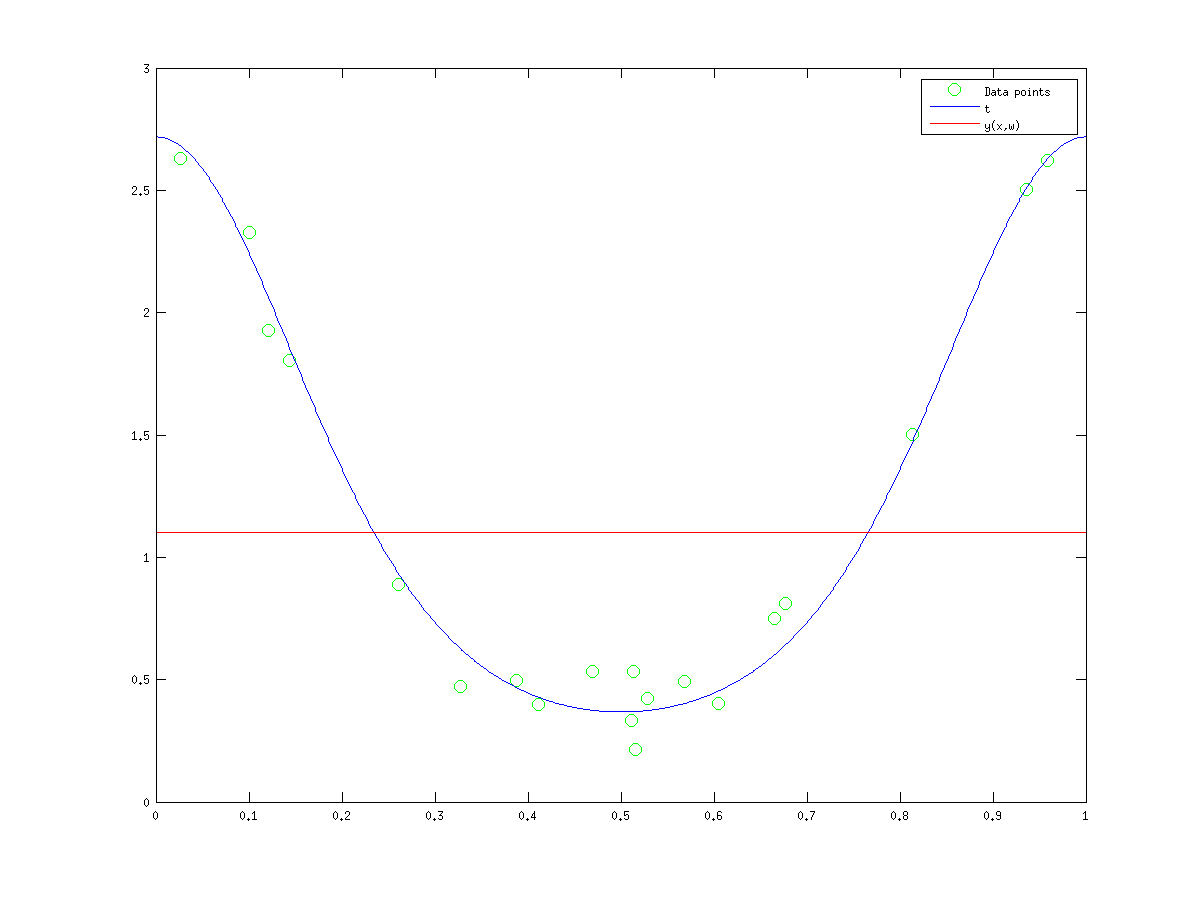
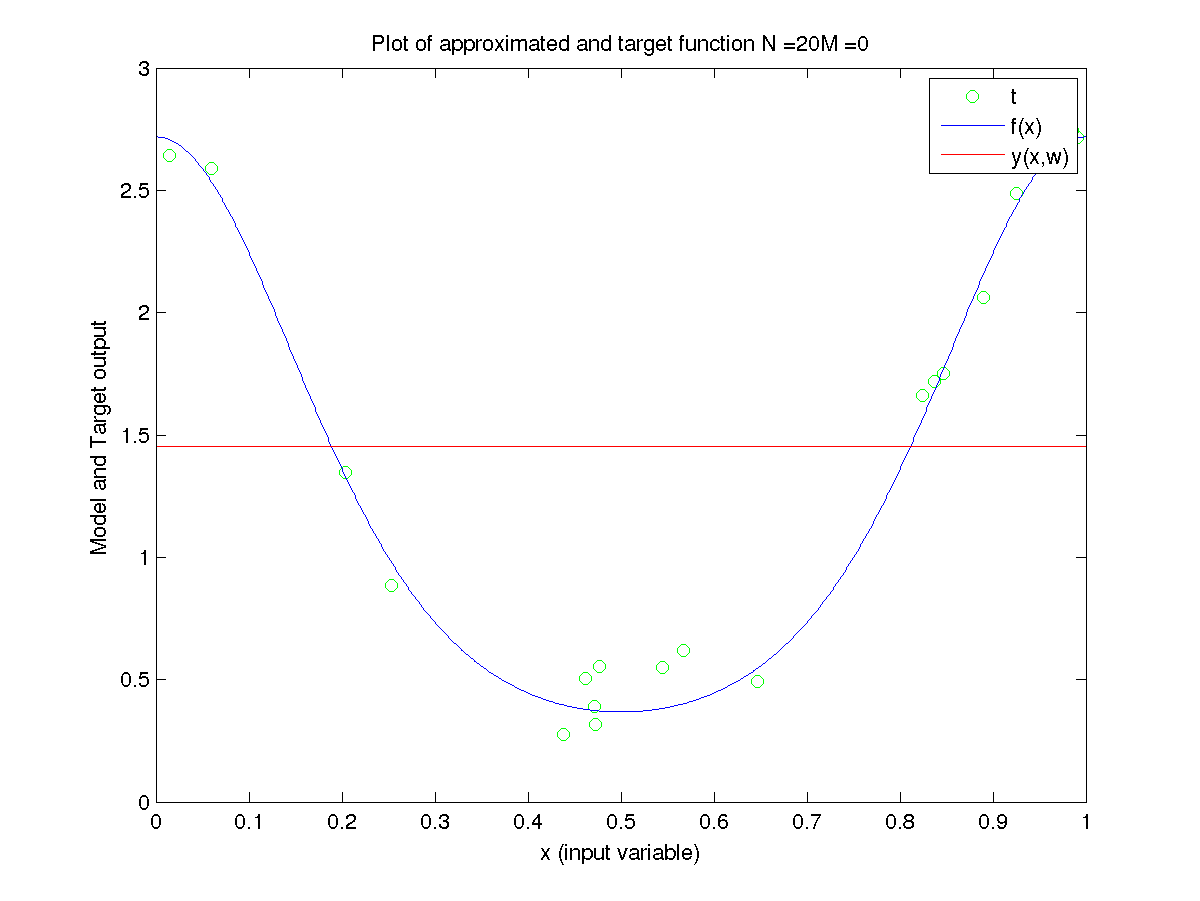
Changed plots for Q1

diff --git a/Assignment_1/Code/Plot_fn_1.m b/Assignment_1/Code/Plot_fn_1.m
@@ -4,25 +4,69 @@ coeffs = curve_fit(train,M,lambda);
 x = 0:.001:1;       
 y1 = exp(cos(2*pi*x));
 y2 = polyval(coeffs,x);
-fig1 = figure;
 
-plot(train(:,1),train(:,2),'go',x,y1,'b',x,y2,'r'), axis([0,1,0,3]);
-
+N = length(train);
 
 % Change this line each time to give different names to the plots
-
+if (index == 0)
+    legend('t','f(x)','y(x,w)');
+    plot(train(:,1),train(:,2),'go',x,y1,'b',x,y2,'r'), axis([0,1,0,3]);
+    %title(strcat('Plot of approximated function and target function for N = '),int2str(N),' and M = ', int2str(M))
+    
+    a = strcat(('Plot of approximated and target function N = '),int2str(N), ' and M = ',int2str(M));
+    
+    title(a);
+    xlabel('x (input variable)');
+    ylabel('Model and Target output');
+    
+    legend('show');
+    %saveas(fig1,strcat('Plots_1/Varying_M/VaryingM_N',int2str(length(train)),'M',int2str(M),'.png'));
+    
+end   
 if(index == 1)
-    legend('Data points','t','y(x,w)');
+    fig1 = figure(1);
+
+    plot(train(:,1),train(:,2),'go',x,y1,'b',x,y2,'r'), axis([0,1,0,3]);
+    legend('t','f(x)','y(x,w)');
+    
+    %title(strcat('Plot of approximated function and target function for N = '),int2str(N),' and M = ', int2str(M))
+    
+    a = strcat(('Plot of approximated and target function N = '),int2str(N), ' and M = ',int2str(M));
+    
+    title(a);
+    xlabel('x (input variable)');
+    ylabel('Model and Target output');
+    
+    legend('show');
     saveas(fig1,strcat('Plots_1/Varying_M/VaryingM_N',int2str(length(train)),'M',int2str(M),'.png'));
+    
 end
 
 if(index == 2)
+    fig1 = figure(1);
+
+    plot(train(:,1),train(:,2),'go',x,y1,'b',x,y2,'r'), axis([0,1,0,3]);
+     a = strcat(('Plot of approximated and target function N = '),int2str(N), ' and M = ',int2str(M));
+    
+    title(a);
+    xlabel('x (input variable)');
+    ylabel('Model and Target output');
+    
     legend('Data points','t','y(x,w)');
     saveas(fig1,strcat('Plots_1/Varying_N/VaryingN_N',int2str(length(train)),'M',int2str(M),'.png')); 
 end
 
 if (index == 3)
+    fig1 = figure(1);
+
+    plot(train(:,1),train(:,2),'go',x,y1,'b',x,y2,'r'), axis([0,1,0,3]);
     legend('Data points','t','y(x,w)');
+    a = strcat(('Plot of approximated and target function N = '),int2str(N), ' and M = ',int2str(M),' for lambda = ',num2str(lambda));
+    
+    title(a);
+    xlabel('x (input variable)');
+    ylabel('Model and Target output');
+    
     saveas(fig1,strcat('Plots_1/Varying_lambda/Varyinglambda_N',int2str(length(train)),'M',int2str(M),'lambda',num2str(lambda),'.png'));    
 end
 

diff --git a/Assignment_1/Code/Q1.m b/Assignment_1/Code/Q1.m
@@ -4,7 +4,7 @@
 % M           - model complexity
 % lambda      - array of values to test for regularization
 
-lambda_values = [0,10^(-6),10^(-5),10^(-4),10^(-3),10^(-2),10^(-1),1,2,5];
+lambda_values = [0,10^(-6),10^(-5),10^(-4),10^(-3),10^(-2),10^(-1),1];
 sigma = 0.1;
 
 validationSet = samplePoints(sigma,50);
@@ -19,38 +19,48 @@ train_1000 = samplePoints(sigma,1000);
 %fplot(fn,[0,1]);
 
 lambda = 0.0;
-M_values = [2,3,5,7,10,15];
+%M_values = [2,3,5,7,10,15];
+M_values = [0,1,3,9,15];
 
-
+cc = hsv(length(M_values));
 % Plots on varying M - note lambda = 0 here
+k = 0;
+colorstring = 'krmcy';
+legend_names=cell(1,2);
 for i = 1:length(M_values)
     
     % Use Plot_fn as pass 1 as the last param
-    %Plot_fn_1(train_1000,M_values(i),lambda,1);
+    %Plot_fn_1(train_20,M_values(i),lambda,1);
     
-%     coeffs = curve_fit(train_100,M_values(i),lambda);  
-%     x = 0:.001:1;       
-%     y1 = exp(cos(2*pi*x));
-%     y2 = polyval(coeffs,x);
-%     fig1 = figure;
-%     
-%     plot(train_100(:,1),train_100(:,2),'go',x,y1,'b',x,y2,'r'), axis([0,1,0,3]);
-%     xlabel('x');
+%      coeffs = curve_fit(train_100,M_values(i),lambda);  
+%      x = 0:.001:1;       
+%      y1 = exp(cos(2*pi*x));
+%      y2 = polyval(coeffs,x);
+% %     fig1 = figure;
+%      plot(train_100(:,1),train_100(:,2),'go',x,y1,'b',x,y2,colorstring(i)), axis([0,1,0,3]);
+%      xlabel('x');
+%      hold on;
+%      
+%     legend_names{i} = int2str(M_values(i));
 %     % Set appropriate legend here
-%     legend('Data points','t','y(x,w)');
-%     saveas(fig1,strcat('Plots_1/Varying_M_',int2str(M_values(i)),'.png')); 
+     %legend('Data points','t','y(x,w)');
+
     
 end
+
+
+%
+%saveas(gcf,strcat('Plots_1/Varying_M/',int2str(length(train_20)),'.png'));
 
 % On varying train set size for some value of M - note lambda = 0 here
 
 % Change M for different set  - use Plot_fn function and pass 2 as the last
 % param
-M = 9;
+M = 15;
 
-% Plot_fn_1(train_20,M,0,2);
-% Plot_fn_1(train_100,M,0,2);
-% Plot_fn_1(train_1000,M,0,2);
+%Plot_fn_1(train_20,M,0,2);
+%Plot_fn_1(train_100,M,0,2);
+%Plot_fn_1(train_1000,M,0,2);
 
 
 % Todo - varying lambda .
@@ -75,15 +85,18 @@ end
 
 val_error
 %}
-%{
+
+
+M = 9;
+
 for i=1:length(lambda_values)
     Plot_fn_1(train_20,M,lambda_values(i),3);
 end
-%}
 
 
 
 
+return;
 
 %%%%%%%%%%%%RMS ERROR PLOTS%%%%%%%%%
 
